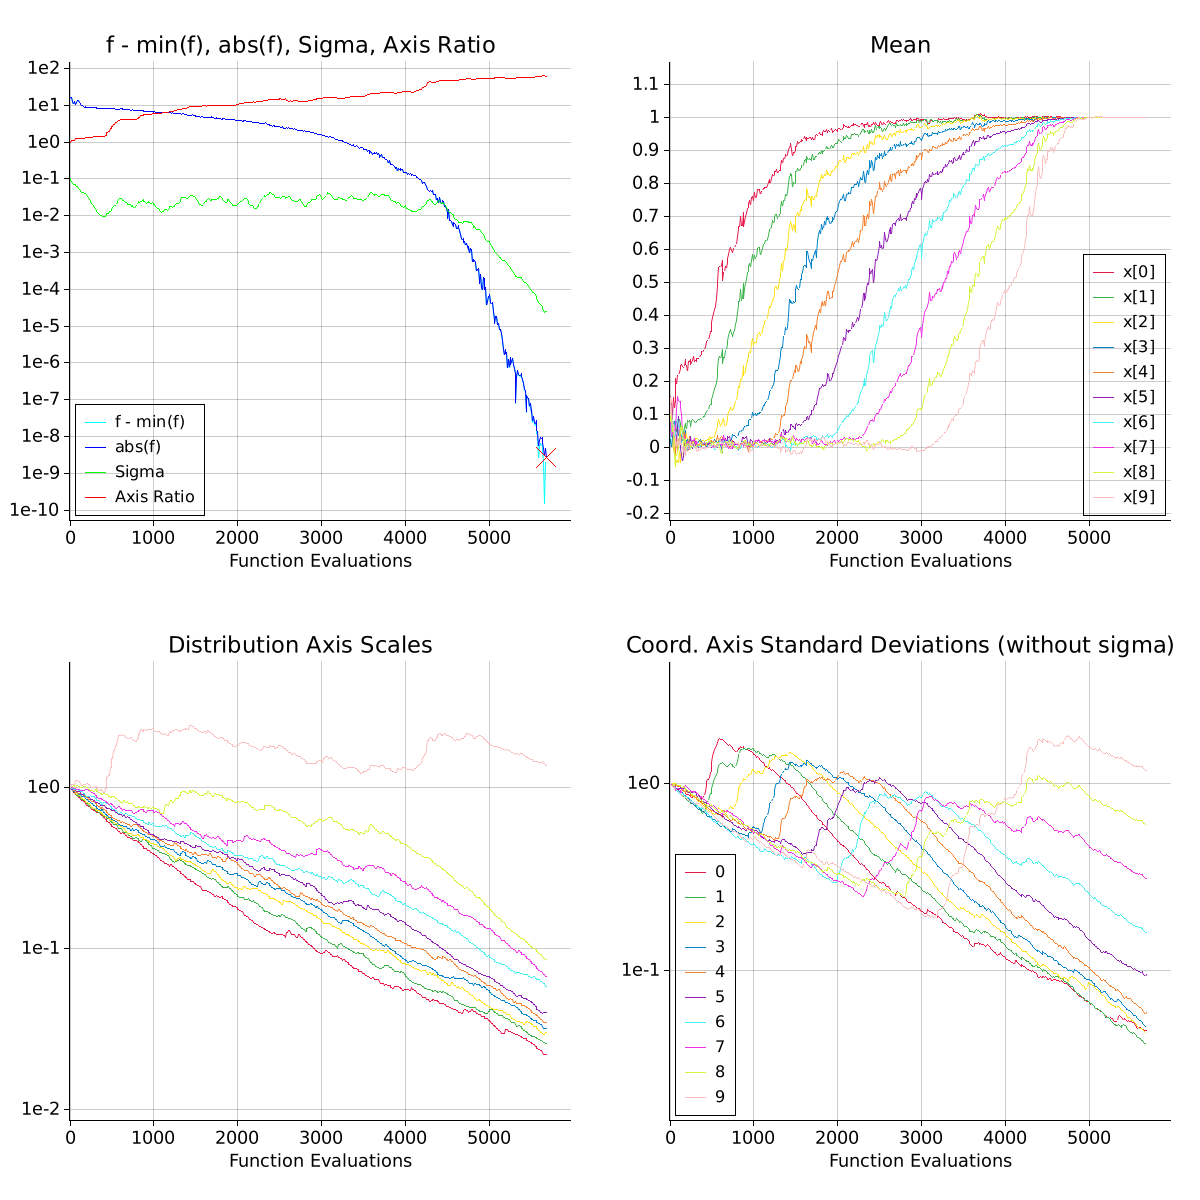
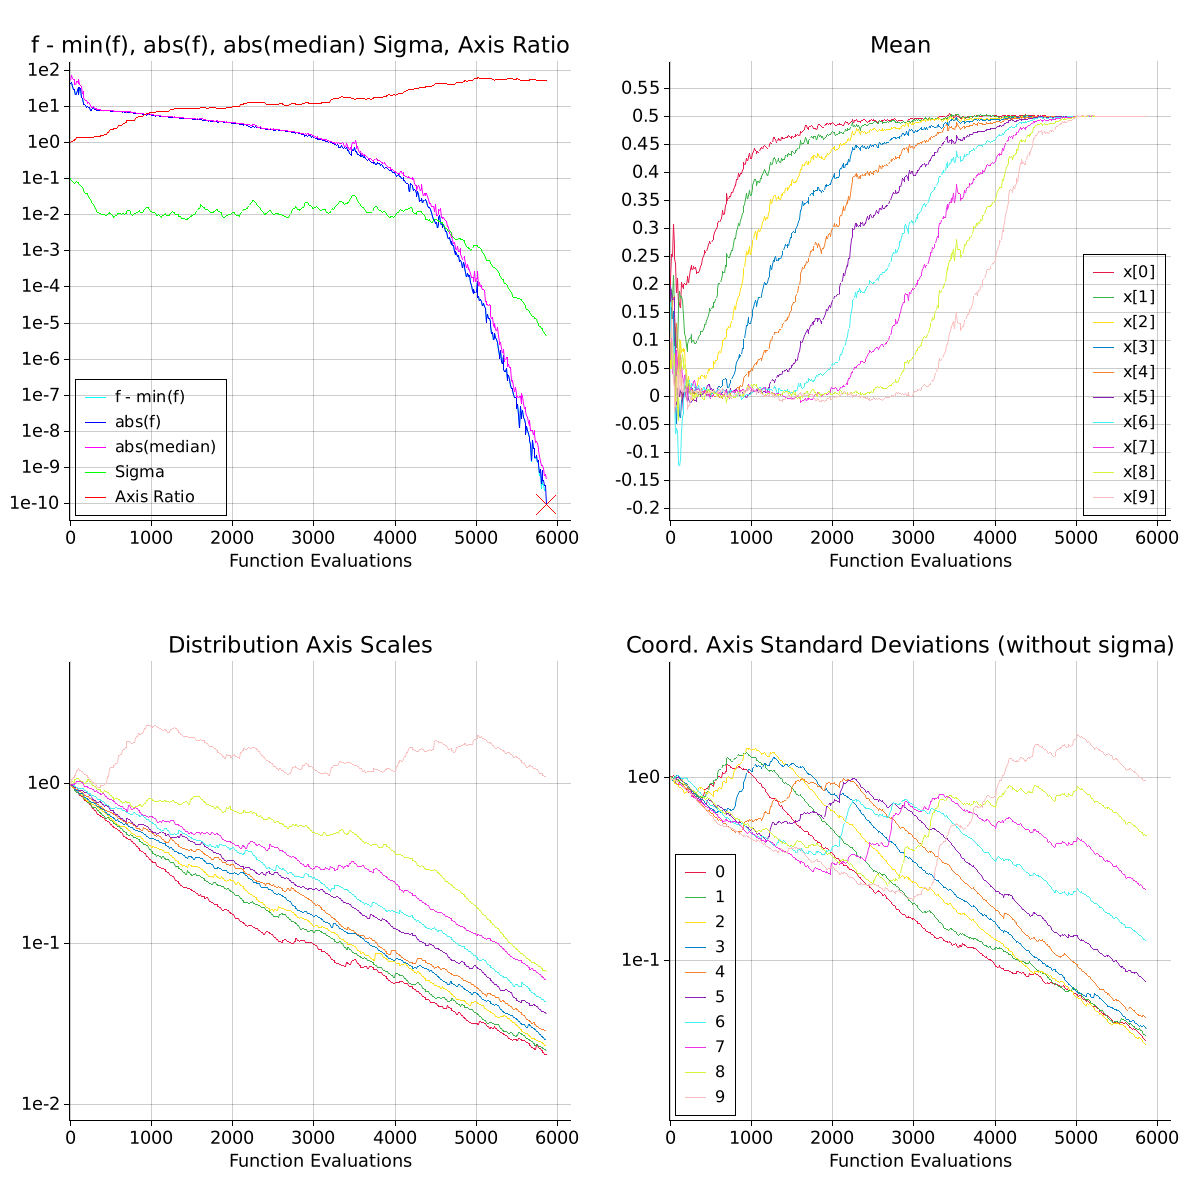
Add median function value to data plots

diff --git a/src/plotting.rs b/src/plotting.rs
@@ -43,6 +43,7 @@ struct PlotData {
     /// Function evals at which other data points were recorded
     function_evals: Vec<usize>,
     best_function_value: Vec<f64>,
+    median_function_value: Vec<f64>,
     sigma: Vec<f64>,
     axis_ratio: Vec<f64>,
     // Each element of the following contains the histories of an individual dimension
@@ -58,6 +59,7 @@ impl PlotData {
         Self {
             function_evals: Vec::new(),
             best_function_value: Vec::new(),
+            median_function_value: Vec::new(),
             sigma: Vec::new(),
             axis_ratio: Vec::new(),
             mean_dimensions: (0..dimensions).map(|_| Vec::new()).collect(),
@@ -92,6 +94,13 @@ impl PlotData {
             .unwrap_or(f64::NAN);
         self.best_function_value
             .push(apply_offset(best_function_value));
+        let median_function_value = history
+            .current_median_function_value()
+            // At 0 function evals there isn't a median function value yet, so use NAN and filter it
+            // later
+            .unwrap_or(f64::NAN);
+        self.median_function_value
+            .push(apply_offset(median_function_value));
         self.sigma.push(apply_offset(state.sigma()));
 
         let mut sqrt_eigenvalues = state.cov_sqrt_eigenvalues().diagonal();
@@ -129,6 +138,7 @@ impl PlotData {
         self.function_evals.truncate(1);
 
         clear(&mut self.best_function_value);
+        clear(&mut self.median_function_value);
         clear(&mut self.sigma);
         clear(&mut self.axis_ratio);
 
@@ -173,8 +183,9 @@ impl PlotOptions {
 /// the plot, use [`CMAESOptions::enable_plot`][crate::CMAESOptions::enable_plot].
 ///
 /// Plots for each iteration the:
-/// - Distance from the minimum objective function value
-/// - Absolute objective function value
+/// - Distance of best value from the minimum objective function value
+/// - Absolute best objective function value
+/// - Absolute median objective function value
 /// - Distribution axis ratio
 /// - Distribution mean
 /// - Scaling of each distribution axis.
@@ -315,8 +326,8 @@ impl Plot {
         self.data.clear();
     }
 
-    /// Draws all single-dimensioned data to the drawing area (f - min(f), abs(f), sigma, axis
-    /// ratio)
+    /// Draws all single-dimensioned data to the drawing area (f - min(f), abs(f), abs(median),
+    /// sigma, axis ratio)
     fn draw_single_dimensioned(
         &self,
         area: &DrawingArea<Backend, coord::Shift>,
@@ -347,6 +358,7 @@ impl Plot {
             .map(|y| apply_offset(y - min_function_value));
 
         let abs_best_value = self.data.best_function_value.iter().map(|y| y.abs());
+        let abs_median_value = self.data.median_function_value.iter().map(|y| y.abs());
 
         // Excludes a few values to not break the range
         let all_y_values = dist_to_min
@@ -354,11 +366,13 @@ impl Plot {
             .enumerate()
             // The minimum value will be drawn if it is reached more than once, so include it in the
             // range only in that case
-            .filter(|&(i, y)| !y.is_nan() && (min_count > 1 || i != min_index))
+            .filter(|&(i, _)| min_count > 1 || i != min_index)
             .map(|(_, y)| y)
-            .chain(abs_best_value.clone().filter(|y| !y.is_nan()))
+            .chain(abs_best_value.clone())
+            .chain(abs_median_value.clone())
             .chain(self.data.sigma.iter().cloned())
-            .chain(self.data.axis_ratio.iter().cloned());
+            .chain(self.data.axis_ratio.iter().cloned())
+            .filter(|y| !y.is_nan());
         let (y_range, num_y_labels) = get_log_range(all_y_values);
 
         let draw = |context: &mut ChartContext<_, _>| {
@@ -397,6 +411,14 @@ impl Plot {
                 colors::BLUE,
             );
 
+            // Median function values
+            let points_abs_median_value = get_points(function_evals.clone(), abs_median_value);
+            add_to_legend(
+                context.draw_series(LineSeries::new(points_abs_median_value, &colors::MAGENTA))?,
+                "abs(median)",
+                colors::MAGENTA,
+            );
+
             // Marker for overall best function value
             if !min_function_value.is_nan() {
                 let abs_overall_best = (
@@ -429,7 +451,7 @@ impl Plot {
 
         self.configure_area(
             area,
-            "f - min(f), abs(f), Sigma, Axis Ratio",
+            "f - min(f), abs(f), abs(median) Sigma, Axis Ratio",
             Some(SeriesLabelPosition::LowerLeft),
             y_range,
             true,

diff --git a/src/functions.rs b/src/functions.rs
@@ -20,8 +20,9 @@ use crate::{CMAESOptions, Individual, ObjectiveFunction, ParallelObjectiveFuncti
 /// let solution = cmaes::fmin(sphere, vec![5.0; dim], 1.0);
 /// ```
 pub fn fmin<F, V>(f: F, initial_mean: V, initial_step_size: f64) -> Individual
-where F: ObjectiveFunction,
-      V: Into<DVector<f64>>,
+where
+    F: ObjectiveFunction,
+    V: Into<DVector<f64>>,
 {
     CMAESOptions::new(initial_mean, initial_step_size)
         .enable_printing(200)
@@ -46,8 +47,9 @@ where F: ObjectiveFunction,
 /// let solution = cmaes::fmin_parallel(sphere, vec![5.0; dim], 1.0);
 /// ```
 pub fn fmin_parallel<F, V>(f: F, initial_mean: V, initial_step_size: f64) -> Individual
-where F: ParallelObjectiveFunction,
-      V: Into<DVector<f64>>,
+where
+    F: ParallelObjectiveFunction,
+    V: Into<DVector<f64>>,
 {
     CMAESOptions::new(initial_mean, initial_step_size)
         .enable_printing(200)

diff --git a/src/history.rs b/src/history.rs
@@ -57,6 +57,11 @@ impl History {
     }
 
     /// Always `Some` if `Self::update` has been called at least once
+    pub fn current_median_function_value(&self) -> Option<f64> {
+        self.median_function_values.get(0).cloned()
+    }
+
+    /// Always `Some` if `Self::update` has been called at least once
     pub fn first_median_function_value(&self) -> Option<f64> {
         self.first_median_function_value
     }

diff --git a/README.md b/README.md
@@ -61,8 +61,7 @@ cmaes_state.get_plot().unwrap().save_to_file("plot.png", true).unwrap();
 The produced plot will look like this:
 
 <a href="https://github.com/pengowen123/cmaes/tree/master/images/plot_sphere.png">
-    <img src="https://pengowen123.github.io/cmaes/images/plot_sphere.png"
-        width=750 height=750 />
+    <img src="https://pengowen123.github.io/cmaes/images/plot_sphere.png" />
 </a>
 
 For more complex problems, automatic restarts are also provided:

diff --git a/CHANGELOG.md b/CHANGELOG.md
@@ -24,6 +24,7 @@
 - Added `ParallelObjectiveFunction` trait and `CMAES::run_parallel` and `CMAES::next_parallel` methods to allow parallel execution of objective functions.
 - Added `restart` module that implements various automatic restart algorithms.
 - Added `fmin` and `fmin_parallel` functions for convenience in cases where configuration is not required.
+- Added median objective function value to data plots
 
 ## 0.1.1 (March 4th, 2022)
 
